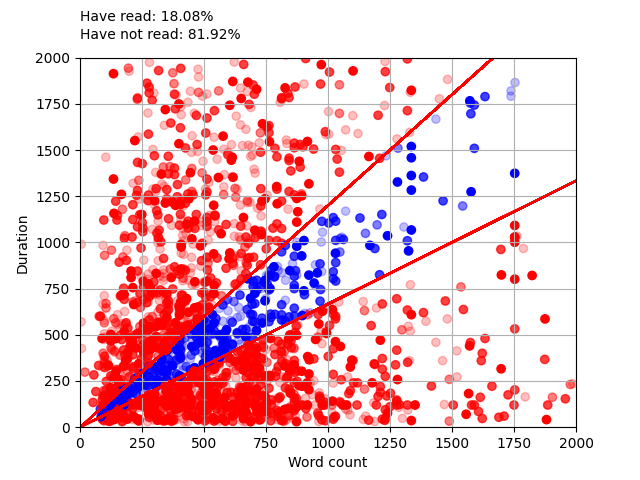
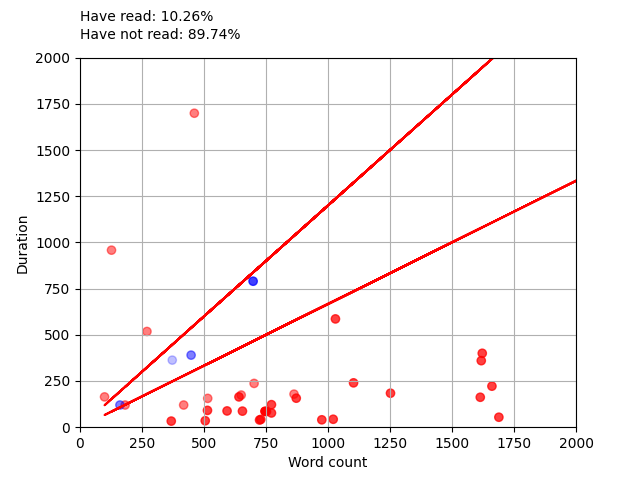
Setup sparse tensor

diff --git a/tools/_playground.py b/tools/_playground.py
@@ -9,12 +9,18 @@ import matplotlib.pyplot as plt
 import numpy as np
 import pyarrow as pa # needed for pandas
 from datetime import datetime, timedelta
+import tensorflow as tf
+tf = tf.compat.v1
+tf.disable_v2_behavior()
+tf.logging.set_verbosity(tf.logging.ERROR)
 
 from zeeguu.api.app import create_app
 from zeeguu.core.model.user_reading_session import UserReadingSession
 
 app = create_app()
 app.app_context().push()
+
+print("Running playground")
 
 def days_since_to_opacity(days_since):
     if days_since < 365 * 1/4:
@@ -74,10 +80,12 @@ def plot_urs_with_duration_and_word_count(df, have_read_sessions, file_name):
 
 def get_all_user_reading_sessions():
     sessions = {}
+    liked_sessions = []
     have_read_sessions = 0
 
     query_data = (
         UserReadingSession.query
+            .filter_by(user_id='534')
             .filter(UserReadingSession.article_id.isnot(None))
             .filter(UserReadingSession.duration >= 30000) # 30 seconds
             .filter(UserReadingSession.duration <= 3600000) # 1 hour
@@ -94,6 +102,8 @@ def get_all_user_reading_sessions():
 
         if (user_id, article_id) not in sessions:
             sessions[(user_id, article_id)] = {
+                'user_id': user_id,
+                'article_id': article_id,
                 'user_duration': session_duration,
                 'language': article.language_id,
                 'difficulty': article.fk_difficulty,
@@ -117,101 +127,41 @@ def get_all_user_reading_sessions():
         if userDurationWithTranslated <= should_spend_reading_upper_bound and userDurationWithTranslated >= should_spend_reading_lower_bound:
             have_read_sessions += 1
             sessions[session]['haveRead'] = 1
+            liked_sessions.append(sessions[session])
         else:
             sessions[session]['haveRead'] = 0
 
-    return sessions, have_read_sessions
+    return sessions, liked_sessions, have_read_sessions
+
+def session_map_to_df(sessions):
+    df = pd.DataFrame.from_dict(sessions, orient='index')
+    return df
 
 def get_df_and_plot_user_reading_sessions():
-    sessions, have_read_sessions = get_all_user_reading_sessions()
-    df = pd.DataFrame.from_dict(sessions, orient='index')
+    sessions, liked_sessions, have_read_sessions = get_all_user_reading_sessions()
+    df = session_map_to_df(sessions)
+    liked_df = pd.DataFrame(liked_sessions, columns=['user_id', 'article_id', 'user_duration', 'language', 'difficulty', 'word_count', 'haveRead', 'days_since'])
     plot_urs_with_duration_and_word_count(df, have_read_sessions, "test")
-    return df
+    return df, liked_df
 
-# This function makes a dataframe for one user with 
-def isArticleLiked():
-    user = 534
-    
-    articleData = {}
-
-    # Not using this, new information found, average reading time for learners is lower.
-    """ language_data = {
-        2: {'name': 'Danish', 'avrt': 204}, # taken from norwegian
-        3: {'name': 'German', 'avrt': 179},
-        5: {'name': 'English', 'avrt': 228},
-        7: {'name': 'French', 'avrt': 195},
-        6: {'name': 'Spanish', 'avrt': 218},
-        8: {'name': 'Italian', 'avrt': 188},
-        9: {'name': 'Dutch', 'avrt': 202},
-        10: {'name': 'Norwegian', 'avrt': 204},
-        11: {'name': 'Portuguese', 'avrt': 181},
-        13: {'name': 'Polish', 'avrt': 166},
-        18: {'name': 'Swedish', 'avrt': 204}, # taken from norwegian
-        19: {'name': 'Russian', 'avrt': 180}, # i made it
-        23: {'name': 'Hungarian', 'avrt': 161}, # taken from finnish
-    } """
-
-    averageReadingTime = 70 # wpm
-    
-    readingSession = (
-        UserReadingSession.query
-            .filter_by(user_id=user)
-            .filter(UserReadingSession.article_id.isnot(None))
-            .filter(UserReadingSession.duration >= 30000) # 30 seconds
-            .filter(UserReadingSession.duration <= 3600000) # 1 hour
-            .order_by(UserReadingSession.article_id.asc())
-            .all()
+def build_sparse_tensor(df):
+    indices = df[['user_id', 'article_id']].values
+    values = df['haveRead'].values
+    num_of_users = User.num_of_users()
+    num_of_articles = Article.num_of_articles()
+    return tf.SparseTensor(
+        indices=indices,
+        values=values,
+        dense_shape=[num_of_users, num_of_articles]
     )
-    
-    for session in readingSession:
-        articleId = session.article_id
-        article = Article.find_by_id(articleId)
-        sessionDuration = int(session.duration) / 1000 # in seconds
 
-        if articleId not in articleData:
-            articleData[articleId] = {
-                'user_duration': sessionDuration,
-                'language': article.language_id,
-                'difficulty': article.fk_difficulty,
-                'word_count': article.word_count,
-                'wpm': 0,
-                #'expectedWpm': 0,
-                'haveRead': 0,
-                'days_since': (datetime.now() - session.start_time).days,
-            }
-        else:
-            articleData[articleId]['user_duration'] += sessionDuration
-    
-    for article in articleData:
-        # Not using this right now, but it could be useful
-        # user_level = UserLanguage.query.filter_by(user_id = user, language_id=articleData[article]['language']).first()
-        averageShouldSpendReading = get_expected_reading_time(articleData[article]['word_count'], 0)
-
-        timesTranslated = translated_words_per_article(user, article)
-        userDurationWithTranslated = articleData[article]['user_duration'] - (timesTranslated * 3)
- 
-        userReadWpm = articleData[article]['word_count'] / (userDurationWithTranslated / 60)
-
-        articleData[article]['wpm'] = userReadWpm
-        articleData[article]['expectedWpm'] = averageShouldSpendReading
-        
-        if (70 - 20) <= userReadWpm and userReadWpm <= (70 + 20):
-            articleData[article]['haveRead'] = 1
-        else:
-            articleData[article]['haveRead'] = 0
-
-        # not using atm
-        """ articleData[article]['likeScore'] = int( 
-            (articleData[article]['duration'] / averageShouldSpend ) 
-            * (articleData[article]['difficulty'] / user_level.cefr_level)
-        ) """
-
-    df = pd.DataFrame.from_dict(articleData, orient='index')
-    return df
+def print_sparse_tensor(tensor):
+    print(tf.sparse.to_dense(tensor))
 
 print("before the function")
 
-get_df_and_plot_user_reading_sessions()
-#plot_urs_with_duration_and_word_count(isArticleLiked(), "oscar_test")
+df, liked_df = get_df_and_plot_user_reading_sessions()
+tensor = build_sparse_tensor(liked_df)
+print_sparse_tensor(tensor)
 
 print("after test")

diff --git a/zeeguu/core/model/user.py b/zeeguu/core/model/user.py
@@ -704,3 +704,7 @@ class User(db.Model):
     def authorize_anonymous(cls, uuid, password):
         email = uuid + cls.ANONYMOUS_EMAIL_DOMAIN
         return cls.authorize(email, password)
+
+    @classmethod
+    def num_of_users(cls):
+        return cls.query.count()

diff --git a/zeeguu/core/model/article.py b/zeeguu/core/model/article.py
@@ -488,3 +488,7 @@ class Article(db.Model):
     @classmethod
     def with_title_containing(cls, needle):
         return cls.query.filter(cls.title.like(f"%{needle}%")).all()
+
+    @classmethod
+    def num_of_articles(cls):
+        return cls.query.count()
